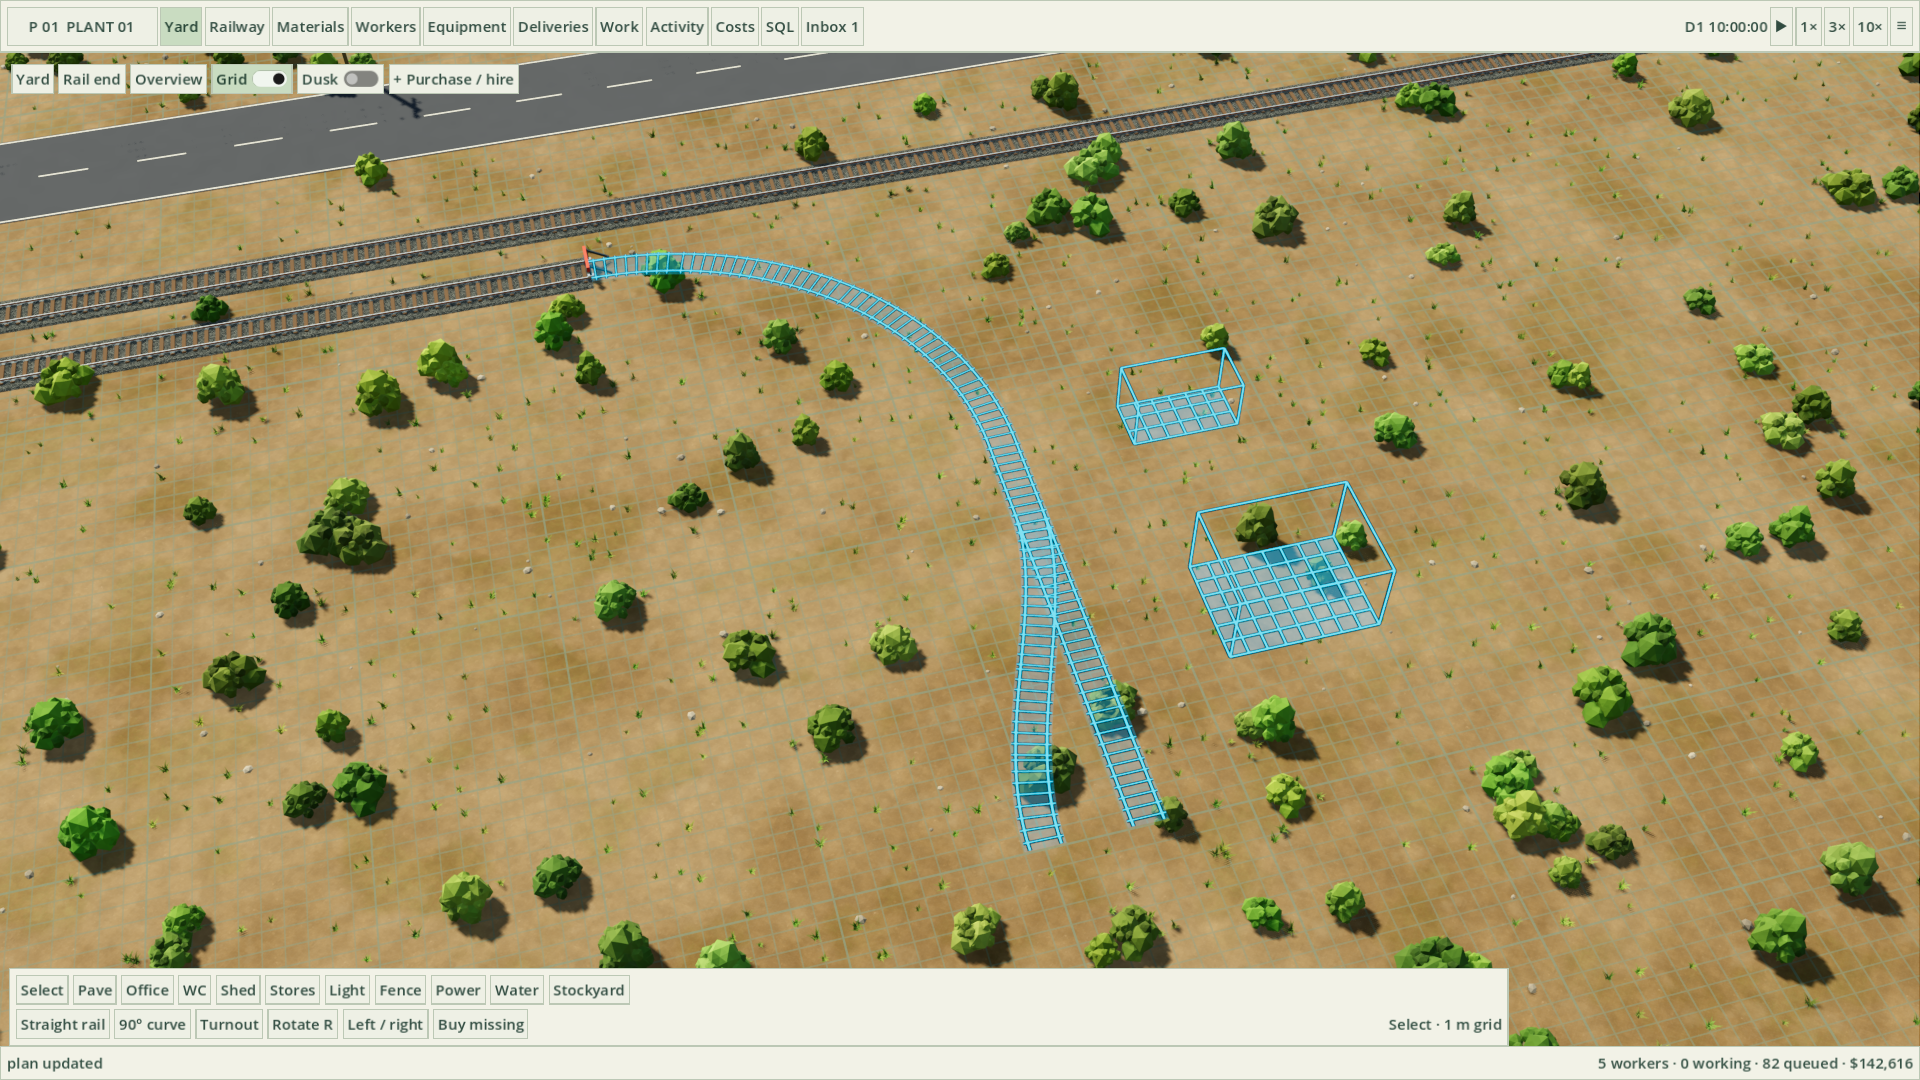
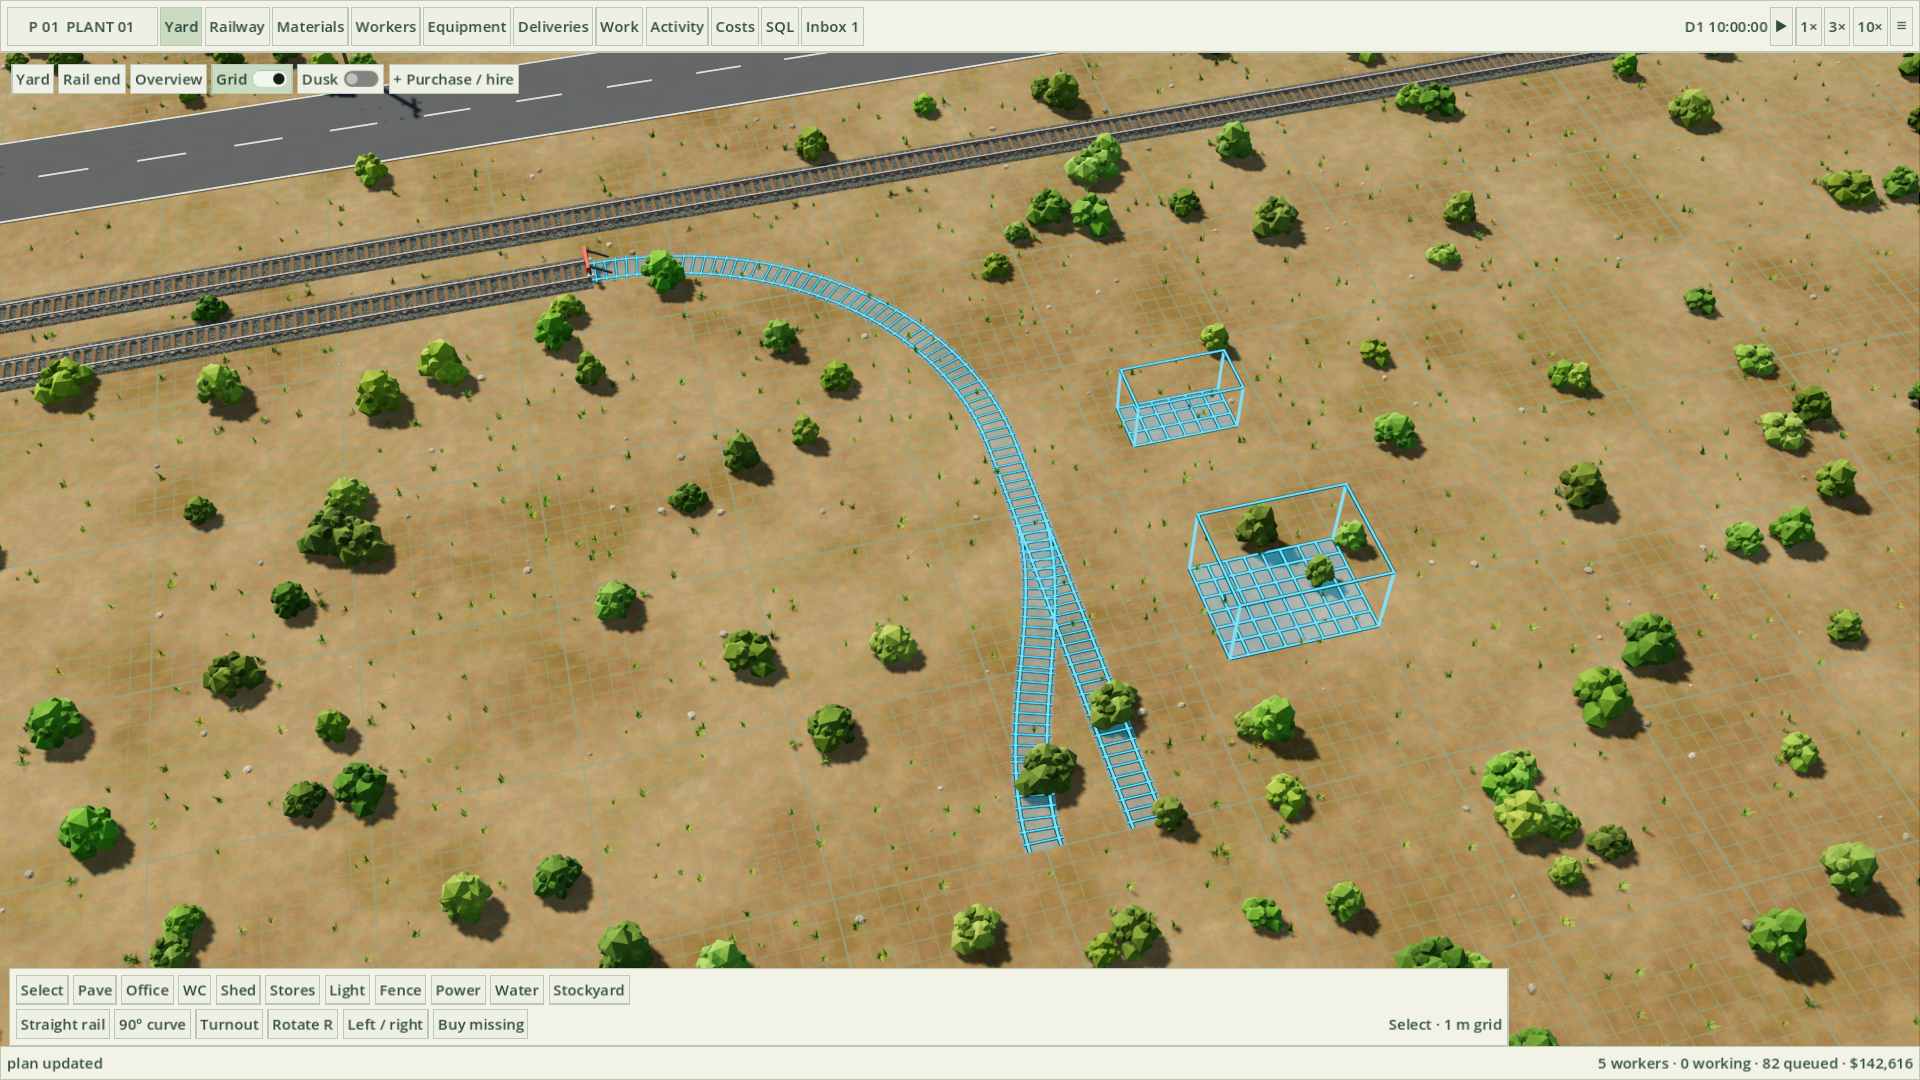
Ground construction ghosts and stabilize temporal rendering

Changed region(s): [[0.3125, 0.2139, 0.625, 0.7944], [0.625, 0.4278, 0.75, 0.6111], [0.5625, 0.3056, 0.6562, 0.4278]]

diff --git a/native/tests/analyze_ghost_raster.py b/native/tests/analyze_ghost_raster.py
@@ -1,0 +1,44 @@
+"""Check the native ghost GPU captures (requires Pillow and NumPy)."""
+import json
+from pathlib import Path
+import numpy as np
+from PIL import Image, ImageFilter
+
+captures = Path(__file__).resolve().parents[1] / "captures"
+report = {}
+
+def read(name):
+    return np.asarray(Image.open(captures / name).convert("RGB"), dtype=np.float32)
+
+def cyan(image):
+    return (image[:, :, 1] > 130) & (image[:, :, 2] > 160) & (image[:, :, 0] < 130)
+
+for mode in ("taa", "fsr2"):
+    report[mode] = {}
+    for variant in ("before", "after"):
+        if not (captures / f"ghost-raster-{variant}-{mode}-0.png").exists():
+            continue
+        frames = [read(f"ghost-raster-{variant}-{mode}-{i}.png") for i in range(12)]
+        masks = [cyan(frame) for frame in frames]
+        band = np.asarray(Image.fromarray(masks[0].astype("uint8") * 255).filter(ImageFilter.MaxFilter(7))) > 0
+        difference = [np.abs(frames[i + 1] - frames[i])[band].mean() for i in range(11)]
+        boundaries = [np.count_nonzero((masks[i] ^ masks[i + 1]) & band) for i in range(11)]
+        clear = read(f"ghost-occluder-{variant}-{mode}.png")
+        red = (clear[:, :, 0] > 170) & (clear[:, :, 1] < 110) & (clear[:, :, 2] < 110)
+        # Ignore silhouette antialiasing: assert inside the opaque surface.
+        interior = np.asarray(Image.fromarray(red.astype("uint8") * 255).filter(ImageFilter.MinFilter(7))) > 0
+        result = {"meanFrameDifference8bit": round(float(np.mean(difference)), 4),
+                  "meanCyanBoundaryChanges": round(float(np.mean(boundaries)), 2),
+                  "cyanPixelsOnOccluder": int(np.count_nonzero(masks[-1] & interior)),
+                  "occluderInteriorPixels": int(np.count_nonzero(interior)),
+                  "ghostPixels": int(masks[0].sum())}
+        report[mode][variant] = result
+    after = report[mode]["after"]
+    assert after["ghostPixels"] > 500, "Fixture must contain visible ghost outlines"
+    assert after["occluderInteriorPixels"] > 500, "Occluder must be visible"
+    assert after["cyanPixelsOnOccluder"] == 0, "Ghost paints over an opaque object"
+    assert after["meanFrameDifference8bit"] < 1.5, "Static ghost edges visibly shimmer"
+    if "before" in report[mode]:
+        assert after["meanFrameDifference8bit"] < report[mode]["before"]["meanFrameDifference8bit"]
+(captures / "ghost-raster-analysis.json").write_text(json.dumps(report, indent=2) + "\n")
+print(json.dumps(report, indent=2))

diff --git a/scripts/package-native-macos.py b/scripts/package-native-macos.py
@@ -65,8 +65,8 @@ if icon.exists():
     shutil.copy2(icon, resources / 'Plant01.icns')
 info = {'CFBundleName': 'Plant 01', 'CFBundleDisplayName': 'Plant 01',
         'CFBundleIdentifier': 'com.lukacslacko.factory-game', 'CFBundleExecutable': 'Plant01',
-        'CFBundlePackageType': 'APPL', 'CFBundleShortVersionString': '0.19.2',
-        'CFBundleVersion': '192', 'CFBundleIconFile': 'Plant01.icns',
+        'CFBundlePackageType': 'APPL', 'CFBundleShortVersionString': '0.19.3',
+        'CFBundleVersion': '193', 'CFBundleIconFile': 'Plant01.icns',
         'NSHighResolutionCapable': True, 'LSMinimumSystemVersion': '14.0',
         'NSHumanReadableCopyright': 'Plant 01 contributors · MIT; runtime notices in Resources/native/licenses'}
 (app / 'Contents/Info.plist').write_bytes(plistlib.dumps(info))

diff --git a/native/README.md b/native/README.md
@@ -6,7 +6,7 @@ This is the first playable native migration. The original browser application an
 
 ## Download or open on this Mac
 
-[Download the Apple Silicon Mac app](https://github.com/lukacslacko/factory_game/releases/tag/v0.19.2), unzip it, and open **Plant 01.app**. This checkpoint targets macOS 14 or newer.
+[Download the Apple Silicon Mac app](https://github.com/lukacslacko/factory_game/releases/tag/v0.19.3), unzip it, and open **Plant 01.app**. This checkpoint targets macOS 14 or newer.
 
 Open the **Plant 01.app** built beside the repository in `outputs/`. It includes the Godot runner, Node runtime, simulation, terrain maps, and license notices. It is a local app for this Mac, not a notarized public release.
 
@@ -43,7 +43,7 @@ Saves use a temporary file and atomic rename, retaining the previous valid save 
 | Escape | Cancel placement and selection |
 | F12 | Capture the native viewport |
 
-Construction ghosts use cyan for queued plans and amber for work underway; cursor previews use green for valid placement and red for invalid placement. Rails show the actual planned paths and sleepers, while buildings show their footprint and a wireframe. Ghosts remain readable in daylight, dusk, and vegetation, and disappear when work is completed or canceled.
+Construction ghosts use cyan for queued plans and amber for work underway; cursor previews use green for valid placement and red for invalid placement. Rails show the actual planned paths and sleepers, while buildings show their footprint and a wireframe. Ghosts stay bright in daylight and dusk, follow the ground or installed paving, and are naturally occluded by workers, equipment, stock, and vegetation. Solid outlines use normal depth and temporal antialiasing; completed or canceled work removes its ghost.
 
 Use the dense registers for sorting and filtering, and click entity IDs to inspect linked equipment, workers, stock, jobs, and orders. Manual assignment and support-worker controls use the same simulation rules as the browser game. The simulation runs independently of drawing; foreground rendering is capped at 60 FPS and unfocused rendering at 15 FPS. Large Retina windows use temporal reconstruction for smoother 3D motion while text and controls remain at full resolution. The game menu has **Full-resolution 3D (slower on Retina)** if you prefer maximum native detail; this preference is saved.
 
@@ -70,6 +70,8 @@ python3 native/tests/run_native_check.py --timeout 45 --name native-integration 
 python3 native/tests/run_native_check.py --timeout 55 --name native-capture -- --resolution 1920x1080 -- --native-capture --data-dir=/tmp/plant01-native-capture
 python3 native/tests/run_native_check.py --name native-ui -- --headless --script res://tests/ui_smoke.gd
 python3 native/tests/run_native_check.py --name native-ghosts -- --headless --script res://tests/ghost_smoke.gd
+python3 native/tests/run_native_check.py --timeout 40 --name ghost-raster -- --resolution 1280x720 --script res://tests/ghost_render_check.gd
+python3 native/tests/analyze_ghost_raster.py # optional GPU image analysis: Pillow + NumPy
 python3 native/tests/run_native_check.py --name native-camera -- --headless --script res://tests/camera_smoke.gd
 python3 native/tests/run_native_check.py --name native-models -- --headless --script res://tests/renderer_smoke.gd
 python3 scripts/package-native-macos.py

diff --git a/docs/design/design-journal.md b/docs/design/design-journal.md
@@ -499,3 +499,12 @@ Queued rail jobs now show their canonical rail paths, curves, turnout branches a
 Outcome: 61 focused ghost checks pass, including canonical straight/curved/turnout paths, keyed reuse, planned-versus-installed separation, vegetation stability and finished/canceled cleanup. Existing renderer checks also pass. Four unedited GPU captures show 82 real planned jobs and 14 planned rail geometries in daylight, dusk, and valid/invalid cursor previews. The final sequential capture took 8.62 seconds with 584.2 MB sampled peak renderer memory. The self-contained v0.19.2 Mac app passes its bundled-runtime integration check in 6.61 seconds with 295.7 MB sampled peak, including saving, background time and SQL. Test saves remain isolated in temporary directories. Actual screenshots and measured results accompany the public source.
 
 The updated app reopened the creator’s existing yard successfully (six workers and $97,686 in recorded costs), with visible paving ghosts. The saved game was continued and its large window restored; no test plans were added to it.
+
+
+## October 6, 2026 — grounded, stable construction ghosts
+
+The creator likes the stronger ghosts but reports nervous subpixel vibration and an incorrect 3D illusion when ghosts draw in front of workers placing slabs. They request floor markings on the ground with normal occlusion. The previous ghost material disabled depth testing and put even solid strokes into the transparent pass. Restore ordinary depth testing; render solid outlines in the opaque pass so they participate in temporal antialiasing and motion vectors. Keep only the footprint wash translucent. Place floor markings a few centimeters above soil or installed paving, and update cached plan heights as foundations are installed. Preserve bright color coding and real rail geometry.
+
+Outcome: 115 focused checks pass, including ordinary depth testing, opaque depth-writing strokes, soil/paving heights, neighboring paving exclusion and cached-plan updates. A static GPU fixture reproduced cyan ghosts painting over an opaque obstacle: 204 pixels with native TAA and 207 with Retina-style FSR2; both drop to zero. Over 12 consecutive frames per configuration, mean ghost-edge-region variation on an 8-bit scale falls from 9.0971 to 0.8511 with FSR2 (about 91%), and from 0.7752 to 0.6384 with native TAA. These are fixed-camera fixture measurements, not a claim of zero temporal noise in every scene. Four real-game daylight/dusk/placement captures retain clear outlines with natural vegetation occlusion. The GPU comparison completed in 19.74 seconds at 506.7 MB sampled peak; an initial test-harness frame wait hit its 40-second watchdog and was corrected to explicit draws. The real-game capture passes in 8.62 seconds at 584.9 MB, and the bundled v0.19.3 app integration passes in 6.62 seconds at 287.5 MB. All test state is isolated from the creator’s saved yard.
+
+The updated app reopened and continued the creator’s original saved yard successfully, preserving its six workers, $97,732 cost record and queued construction. Workers and a forklift were reviewed during paving with the corrected ground markings. No test plans were added to that yard.

diff --git a/README.md b/README.md
@@ -2,7 +2,7 @@
 
 ## Native game
 
-The playable Godot migration uses the approved Concept C art and a separate local simulation process. Open **Plant 01.app** in the surrounding `outputs/` folder, or double-click **Open Plant 01.command** for development. No browser is required. [Download the Mac app](https://github.com/lukacslacko/factory_game/releases/tag/v0.19.2). See [native game instructions](native/README.md) and [migration notes](docs/native-migration.md). The browser game and static visual proof remain available below.
+The playable Godot migration uses the approved Concept C art and a separate local simulation process. Open **Plant 01.app** in the surrounding `outputs/` folder, or double-click **Open Plant 01.command** for development. No browser is required. [Download the Mac app](https://github.com/lukacslacko/factory_game/releases/tag/v0.19.3). See [native game instructions](native/README.md) and [migration notes](docs/native-migration.md). The browser game and static visual proof remain available below.
 
 
 A playable first version of the fantasy chemistry plant game. Build and operate the construction yard before chemical production arrives: hire a crew, receive physical materials, move equipment, pave ground, extend track, and assemble a small base.
@@ -17,7 +17,7 @@ An independent [Godot visual study](native-proof/README.md) recreates the concep
 
 ## Play
 
-The private game Site is **https://plant-01-starter-yard.lukacslacko.chatgpt.site**. The browser deployment remains **0.18.0**; the native checkpoint is **0.19.2**. Browser deployment status is recorded in `docs/publishing.md`. Sign in with the account that owns the Site. Local and hosted browser saves are separate; use Export save / Import save to transfer a yard.
+The private game Site is **https://plant-01-starter-yard.lukacslacko.chatgpt.site**. The browser deployment remains **0.18.0**; the native checkpoint is **0.19.3**. Browser deployment status is recorded in `docs/publishing.md`. Sign in with the account that owns the Site. Local and hosted browser saves are separate; use Export save / Import save to transfer a yard.
 
 On this Mac, double-click **Start Plant 01.command**. It starts the included local server and opens the game at **http://127.0.0.1:4173/**. Keep its Terminal window open while playing; Control-C stops the server.
 
